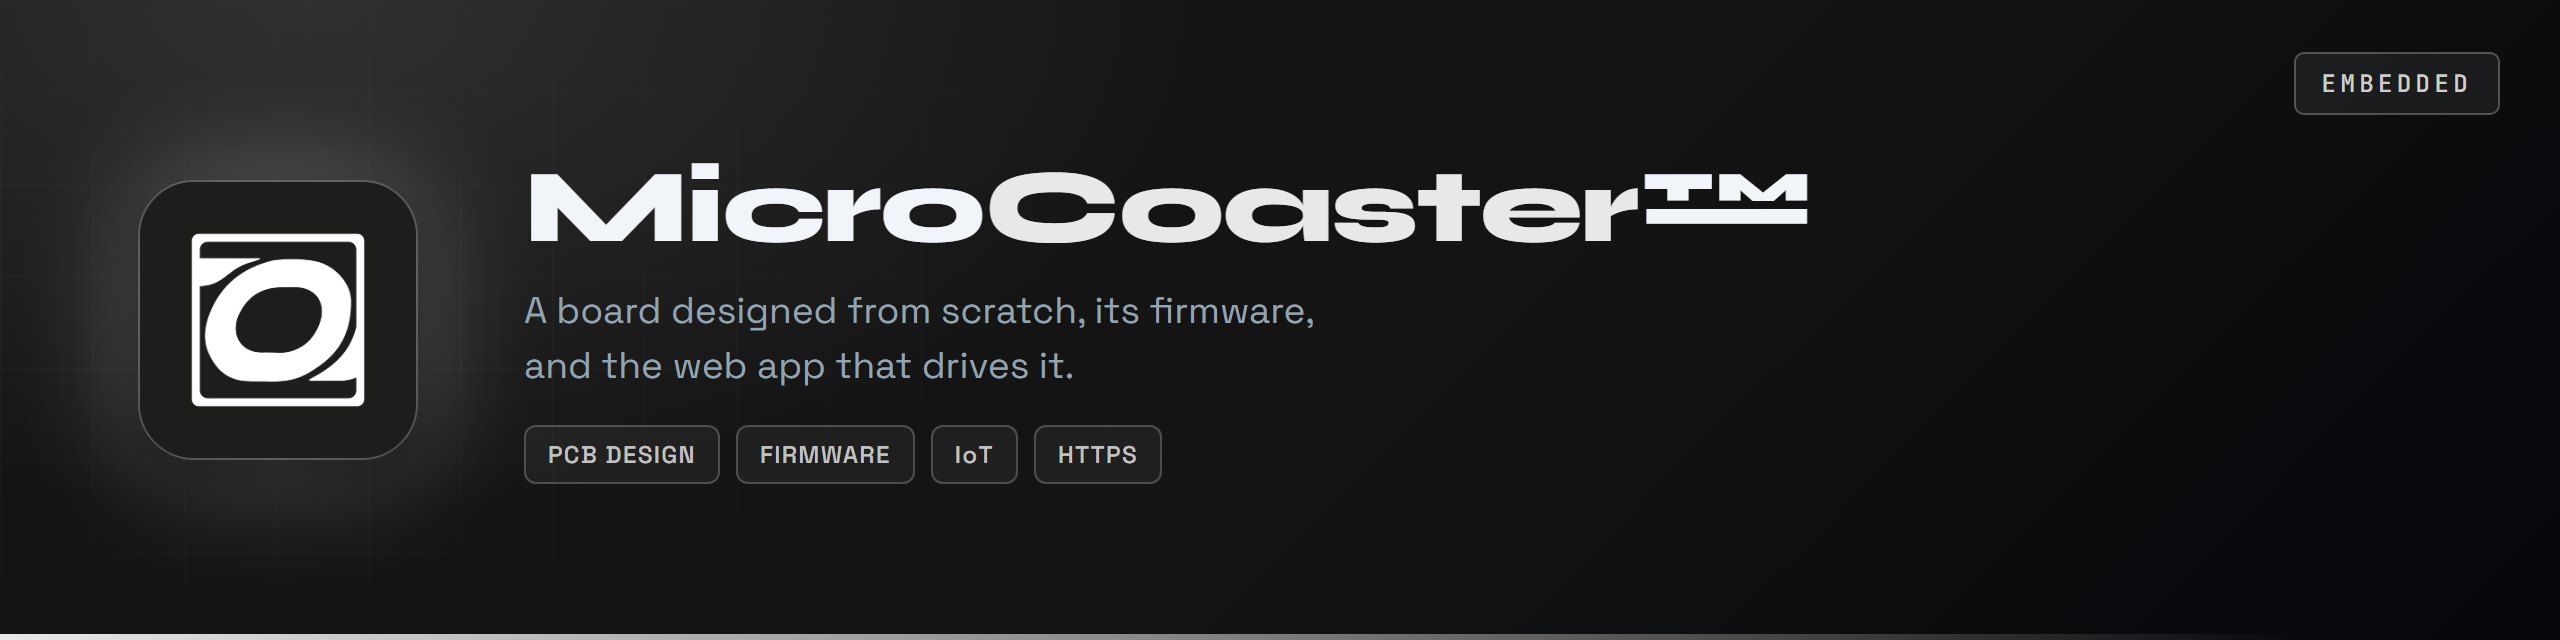
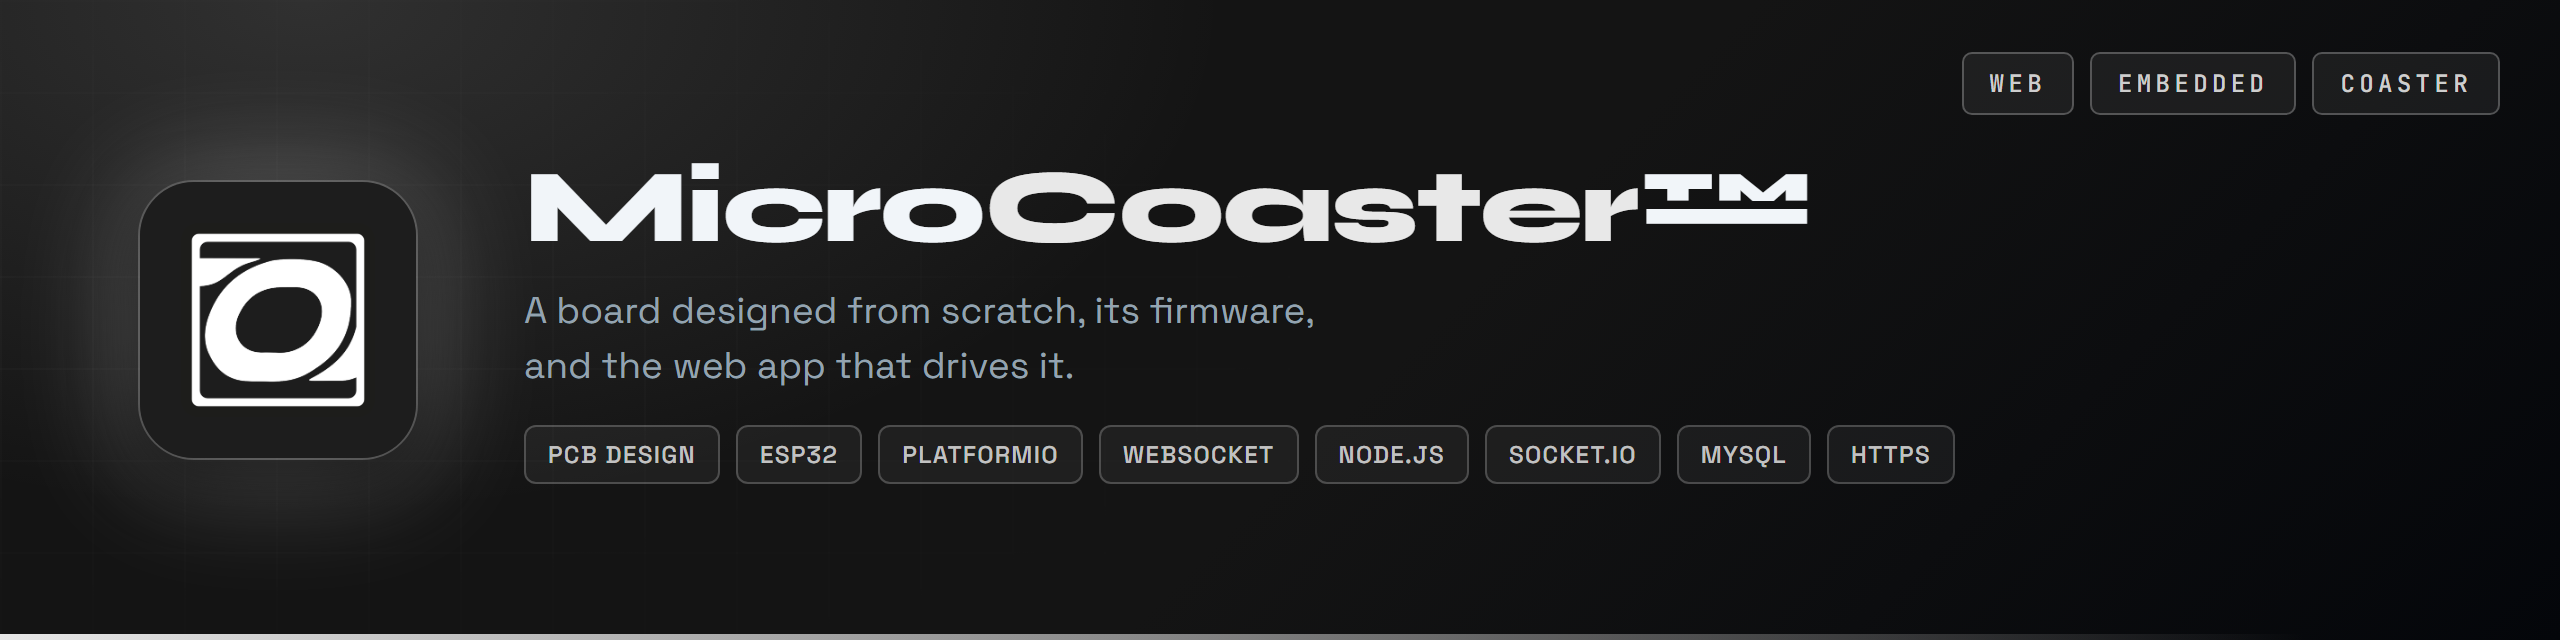
docs: la carte MicroCoaster dit WEB, EMBARQUÉ, COASTER et sa vraie pile
Les pastilles viennent des quatorze dépôts de l'organisation : ESP32 et
PlatformIO pour les modules, WebSocket entre eux et le serveur, Node.js,
Socket.IO et MySQL pour l'application web.

diff --git a/README.en.md b/README.en.md
@@ -43,7 +43,7 @@ I am looking at roles in **cybersecurity**, **infrastructure**, **security opera
 
 <a href="https://github.com/Cybertrist/KyrlCut/blob/main/README.en.md"><img src="docs/en/projets/kyrlcut.png" alt="KyrlCut, web, mobile, hair salon, private repository. Online booking for a hair salon, by invitation only. Quarter-hour slots, an email reminder the day before. Express, MySQL, bcrypt." width="100%"></a>
 
-<a href="https://github.com/Microcoaster"><img src="docs/en/projets/microcoaster.png" alt="MicroCoaster, embedded: a board designed from scratch, its firmware and the web app that drives it" width="100%"></a>
+<a href="https://github.com/Microcoaster"><img src="docs/en/projets/microcoaster.png" alt="MicroCoaster, web, embedded, coaster. A board designed from scratch, its firmware, and the web app that drives it. PCB design, ESP32, PlatformIO, WebSocket, Node.js, Socket.IO, MySQL, HTTPS." width="100%"></a>
 
 <a href="https://github.com/Cybertrist/Serenity/blob/main/README.en.md"><img src="docs/en/projets/serenity.png" alt="Serenity, web, mobile, security. Your password vault, hosted at home. An agent watches for breaches, and rotates the ones you trust it with. Zero knowledge, libsodium, self-hosted, AGPL v3." width="100%"></a>
 

diff --git a/README.md b/README.md
@@ -43,7 +43,7 @@ Je m'intéresse aux postes en **cybersécurité**, **infrastructure**, **sécuri
 
 <a href="https://github.com/Cybertrist/KyrlCut"><img src="docs/projets/kyrlcut.png" alt="KyrlCut, web, mobile, coiffure, dépôt privé. Réservation en ligne pour salon de coiffure, sur invitation. Créneaux au quart d'heure, rappel par email la veille. Express, MySQL, bcrypt." width="100%"></a>
 
-<a href="https://github.com/Microcoaster"><img src="docs/projets/microcoaster.png" alt="MicroCoaster, embarqué : une carte conçue de zéro, son firmware et l'application web qui la pilote" width="100%"></a>
+<a href="https://github.com/Microcoaster"><img src="docs/projets/microcoaster.png" alt="MicroCoaster, web, embarqué, coaster. Une carte conçue de zéro, son firmware, et l'application web qui la pilote. Conception PCB, ESP32, PlatformIO, WebSocket, Node.js, Socket.IO, MySQL, HTTPS." width="100%"></a>
 
 <a href="https://github.com/Cybertrist/Serenity"><img src="docs/projets/serenity.png" alt="Serenity, web, mobile, sécurité. Ton coffre de mots de passe, chez toi. Un agent surveille les fuites, et change ceux que tu lui confies. Zéro connaissance, libsodium, auto-hébergé, AGPL v3." width="100%"></a>
 
